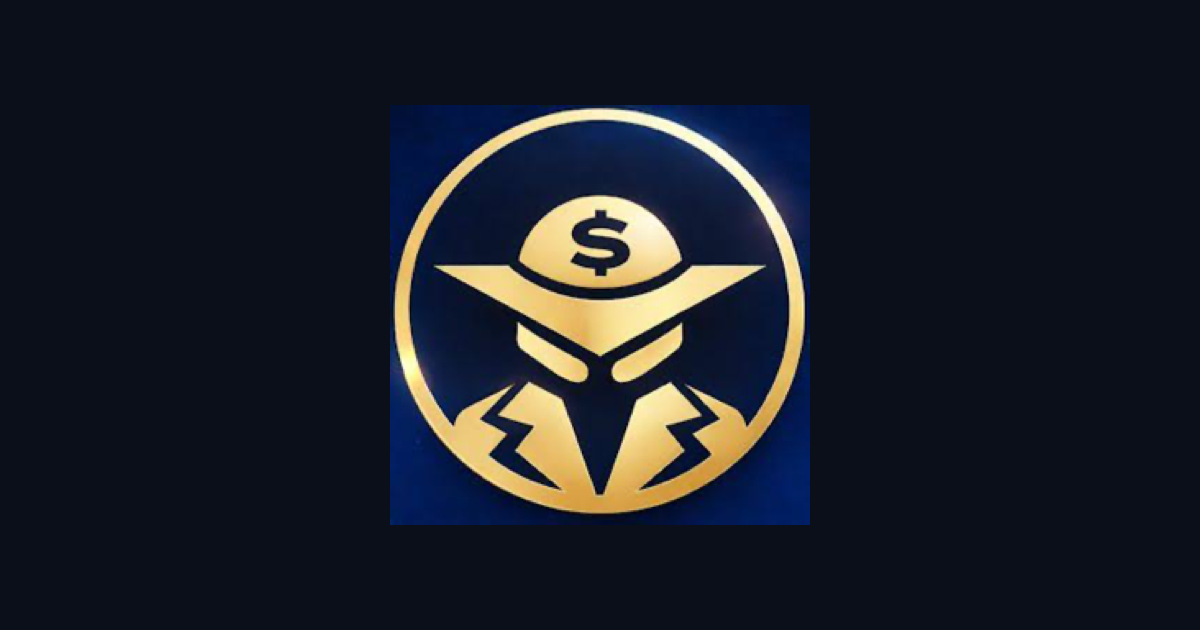
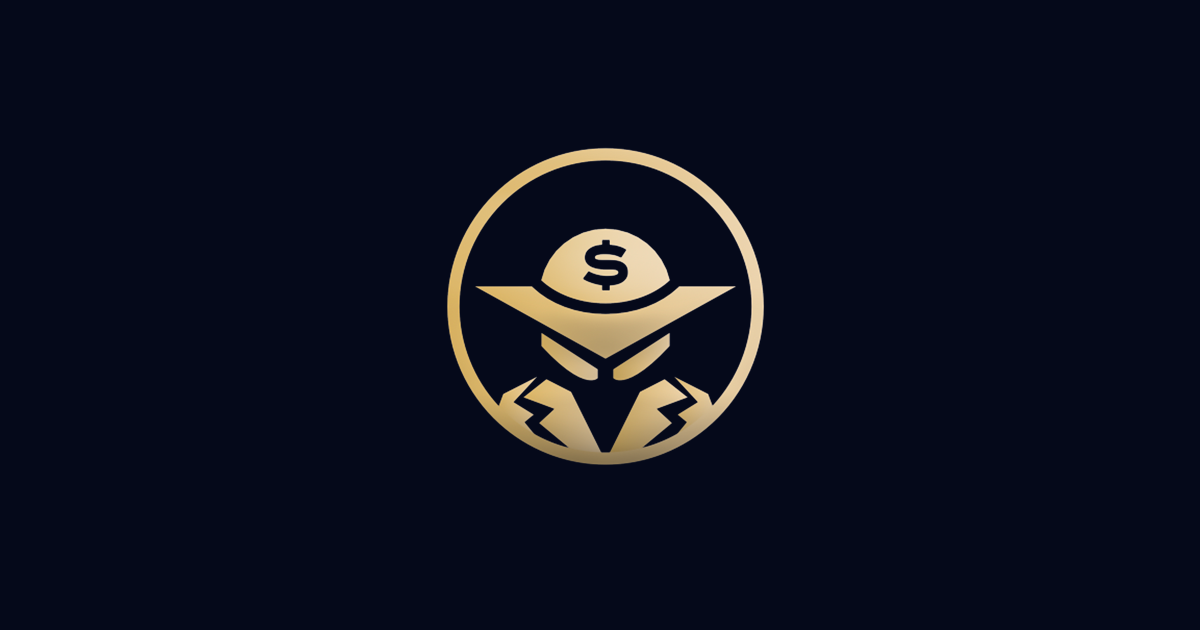
El fondo iba pesado, y el icono ahora es el del panel
Rendimiento (era culpa del fondo que acabo de tocar):
- `cerca()` se llamaba dentro del bucle de uniones: miles de raíces cuadradas por
  fotograma. Ahora se calcula una vez por estrella y se consulta en un array.
- Las comparaciones de distancia van al cuadrado, sin raíz, salvo cuando hace falta.
- 72 estrellas en vez de 110: el coste de las uniones crece al cuadrado.
- El halo solo en las de delante (o junto al ratón); en las del fondo no se notaba.
- Tope de 40 fotogramas por segundo: el fondo se ve igual y deja el procesador
  libre para la aplicación, que es lo que el usuario está tocando.

Icono: el mismo logo dorado del panel del Club, en la pestaña, en el iPhone y en
la previsualización del enlace. Antes era un cuadrado azul y no parecían la
misma herramienta.

Changed region(s): [[0.3083, 0.1508, 0.6783, 0.8444]]

diff --git a/src/components/layout/animated-background.tsx b/src/components/layout/animated-background.tsx
@@ -82,7 +82,7 @@ function ParticleCanvas({
       height = canvas.offsetHeight;
       canvas.width = width * dpr;
       canvas.height = height * dpr;
-      const count = Math.min(110, Math.round((width * height) / 14000));
+      const count = Math.min(72, Math.round((width * height) / 22000));
       estrellas = Array.from({ length: count }, () => {
         const z = Math.random();                       // 0 = al fondo, 1 = delante
         return {
@@ -115,17 +115,33 @@ function ParticleCanvas({
     window.addEventListener("pointermove", mueve, { passive: true });
     window.addEventListener("pointerleave", sale);
 
-    const cerca = (p: Estrella) => {
-      if (!raton.dentro) return 0;
-      const d = Math.hypot(p.x - raton.x, p.y - raton.y);
-      return d > RADIO_RATON ? 0 : 1 - d / RADIO_RATON;
-    };
+    /* Se calcula una vez por estrella y por fotograma, no dentro del bucle de
+       uniones: ahí eran miles de raíces cuadradas por fotograma y se notaba. */
+    let cercania: number[] = [];
+    function midaCercania() {
+      const n = estrellas.length;
+      if (cercania.length !== n) cercania = new Array(n).fill(0);
+      if (!raton.dentro) { cercania.fill(0); return; }
+      const rr = RADIO_RATON * RADIO_RATON;
+      for (let i = 0; i < n; i++) {
+        const p = estrellas[i];
+        const dx = p.x - raton.x;
+        const dy = p.y - raton.y;
+        const d2 = dx * dx + dy * dy;
+        cercania[i] = d2 > rr ? 0 : 1 - Math.sqrt(d2) / RADIO_RATON;
+      }
+    }
 
     let raf = 0;
     let t0 = 0;
+    let ultimo = 0;
+    const MS_POR_CUADRO = 1000 / 40;
     function frame(ahora: number) {
       if (!ctx) return;
-      const paso = t0 ? Math.min((ahora - t0) / 16.67, 3) : 1;   // estable a 60 y a 120 Hz
+      if (!prefersReduced) raf = requestAnimationFrame(frame);
+      if (ahora - ultimo < MS_POR_CUADRO) return;                // tope de 40 fps
+      ultimo = ahora;
+      const paso = t0 ? Math.min((ahora - t0) / 16.67, 4) : 1;   // estable a 60 y a 120 Hz
       t0 = ahora;
 
       ctx.setTransform(dpr, 0, 0, dpr, 0, 0);
@@ -138,20 +154,23 @@ function ParticleCanvas({
         if (p.x < 0 || p.x > width) p.vx *= -1;
         if (p.y < 0 || p.y > height) p.vy *= -1;
       }
+      midaCercania();
 
       // Las uniones, primero: las estrellas quedan encima y se ven nítidas.
       for (let i = 0; i < estrellas.length; i++) {
         const a = estrellas[i];
-        const ca = cerca(a);
+        const ca = cercania[i];
         for (let j = i + 1; j < estrellas.length; j++) {
           const bP = estrellas[j];
-          const alcance = 120 + Math.max(ca, cerca(bP)) * 70;
+          const cercaMax = ca > cercania[j] ? ca : cercania[j];
+          const alcance = 120 + cercaMax * 70;
           const dx = a.x - bP.x;
           const dy = a.y - bP.y;
-          const dist = Math.sqrt(dx * dx + dy * dy);
-          if (dist >= alcance) continue;
+          const d2 = dx * dx + dy * dy;
+          if (d2 >= alcance * alcance) continue;      // sin raíz si no hace falta
+          const dist = Math.sqrt(d2);
           const fuerza = 1 - dist / alcance;
-          const viveza = 1 + Math.max(ca, cerca(bP)) * 2.1;
+          const viveza = 1 + cercaMax * 2.1;
           ctx.strokeStyle = `rgba(${r}, ${g}, ${b}, ${lineAlpha * fuerza * viveza})`;
           ctx.lineWidth = 0.6 + fuerza * 0.7;
           ctx.beginPath();
@@ -161,14 +180,16 @@ function ParticleCanvas({
         }
       }
 
-      for (const p of estrellas) {
+      for (let i = 0; i < estrellas.length; i++) {
+        const p = estrellas[i];
         const titila = 0.72 + Math.sin(p.fase) * 0.28;
-        const c = cerca(p);
+        const c = cercania[i];
         const alfa = Math.min(1, dotAlpha * (0.45 + p.z * 0.55) * titila * (1 + c * 1.5));
         const tam = p.r * (1 + c * 0.55);
 
-        if (hctx) {
+        if (hctx && (p.z > 0.45 || c > 0.05)) {
           // El halo, que es lo que le da el brillo de estrella y no de punto plano.
+          // Solo en las de delante (o cerca del ratón): en las del fondo no se nota.
           const brillo = tam * (5.5 + c * 3);
           ctx.globalAlpha = alfa * 0.5;
           ctx.drawImage(halo, p.x - brillo, p.y - brillo, brillo * 2, brillo * 2);
@@ -180,8 +201,6 @@ function ParticleCanvas({
         ctx.arc(p.x, p.y, tam, 0, Math.PI * 2);
         ctx.fill();
       }
-
-      if (!prefersReduced) raf = requestAnimationFrame(frame);
     }
 
     resize();
